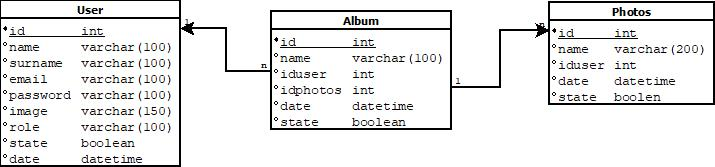
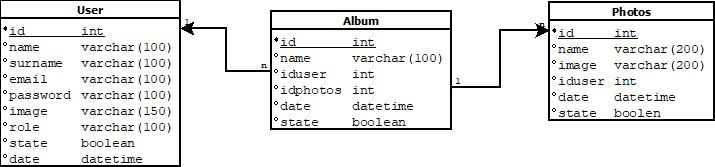
method to upload photos to your library

Changed region(s): [[0.7692, 0.5389, 1.0, 0.7485], [0.7692, 0.3593, 0.9846, 0.4192], [0.7692, 0.4491, 0.9538, 0.509]]

diff --git a/Photos/Backend-api/controllers/photo.js b/Photos/Backend-api/controllers/photo.js
@@ -1,11 +1,106 @@
 'use strict'
 
+let validator = require('validator');
+let Photo = require('../models/photo');
+
+//internal nodejs library to work with the file system
+let fs = require('fs');
+
+//nodejs library to work folder paths
+let path = require('path');
+
 let controller = {
 
     save: function (req, res) {
-        res.status(200).send({
-            message: 'test photos save'
-        });
+
+        let validate_name;
+
+        //collect the parameters
+        let params = req.body;
+
+        //collect the request file
+        let file_name = 'avatar not uploaded';
+
+        if (!req.files) {
+            //return the data
+            return res.status(404).send({
+                status: 'error',
+                user: file_name
+            });
+
+        }
+
+        //get the name and the file extension to upload
+        //full file path
+        let file_path = req.files.imgPhoto.path;
+
+        //separate each part of the routes with the split method of javascript in windows
+        let file_split = file_path.split('\\');
+
+        //separate each part of the routes with the split method of javascript on mac or linux
+        //let file_split = file_path.split('/');
+
+        //get the file name
+        file_name = file_split[2];
+
+        //file extension
+        let ext_split = file_name.split('\.');
+        let file_ext = ext_split[1];
+
+        //check image only extension and if it is not valid delete the uploaded file
+        if (file_ext != 'png' && file_ext != 'jpg' && file_ext != 'jpeg' && file_ext != 'gif' && file_ext != 'ico' && file_ext != 'PNG' && file_ext != 'JPG' && file_ext != 'JPEG' && file_ext != 'GIF' && file_ext != 'ICO') {
+            fs.unlink(file_path, (err) => {
+                return res.status(500).send({
+                    status: 'error',
+                    message: 'the file extension is not valid'
+                });
+            });
+        } else {
+
+            //validate the data
+            try {
+                validate_name = !validator.isEmpty(params.name);
+            } catch (err) {
+                //return answer
+                res.status(404).send({
+                    message: 'missing data to send'
+                });
+            }
+
+            if (validate_name) {
+
+                //create object save
+                let photo = new Photo();
+
+                //assign values
+                photo.name = params.name;
+                photo.image = file_name;
+                photo.state = true;
+                photo.user = req.user.sub;
+
+                //save photo
+                photo.save((err, photoStore) => {
+                    if (err || !photoStore) {
+                        return res.status(404).send({
+                            status: 'error',
+                            message: 'error saving data'
+                        });
+                    }
+                    return res.status(200).send({
+                        status: 'success',
+                        photo: photoStore
+                    });
+                });
+            } else {
+                //return answer
+                res.status(400).send({
+                    message: 'incomplete data'
+                });
+            }
+
+        }
+
+
     }
 
 };

diff --git a/Photos/Backend-api/models/photo.js b/Photos/Backend-api/models/photo.js
@@ -1,0 +1,19 @@
+'use strict'
+
+//import moongoose
+let mongoose = require('mongoose');
+let Schema = mongoose.Schema;
+
+
+
+let PhotoSchema = Schema({
+    name: String,
+    image: String,
+    state: String,
+    user: {type: Schema.ObjectId, ref: 'User'},
+    date: { type: Date, default: Date.now }
+});
+
+
+
+module.exports = mongoose.model('Photo', PhotoSchema);

diff --git a/Photos/Backend-api/routes/photo.js b/Photos/Backend-api/routes/photo.js
@@ -13,7 +13,7 @@ let multiparty = require('connect-multiparty');
 let md_upload = multiparty({ uploadDir: './uploads/photos'});
 
 //photo path
-router.post('/save', md_auth.authenticated, md_upload, PhotoController.save);
+router.post('/photo', md_auth.authenticated, md_upload, PhotoController.save);
 
 
 module.exports = router;
